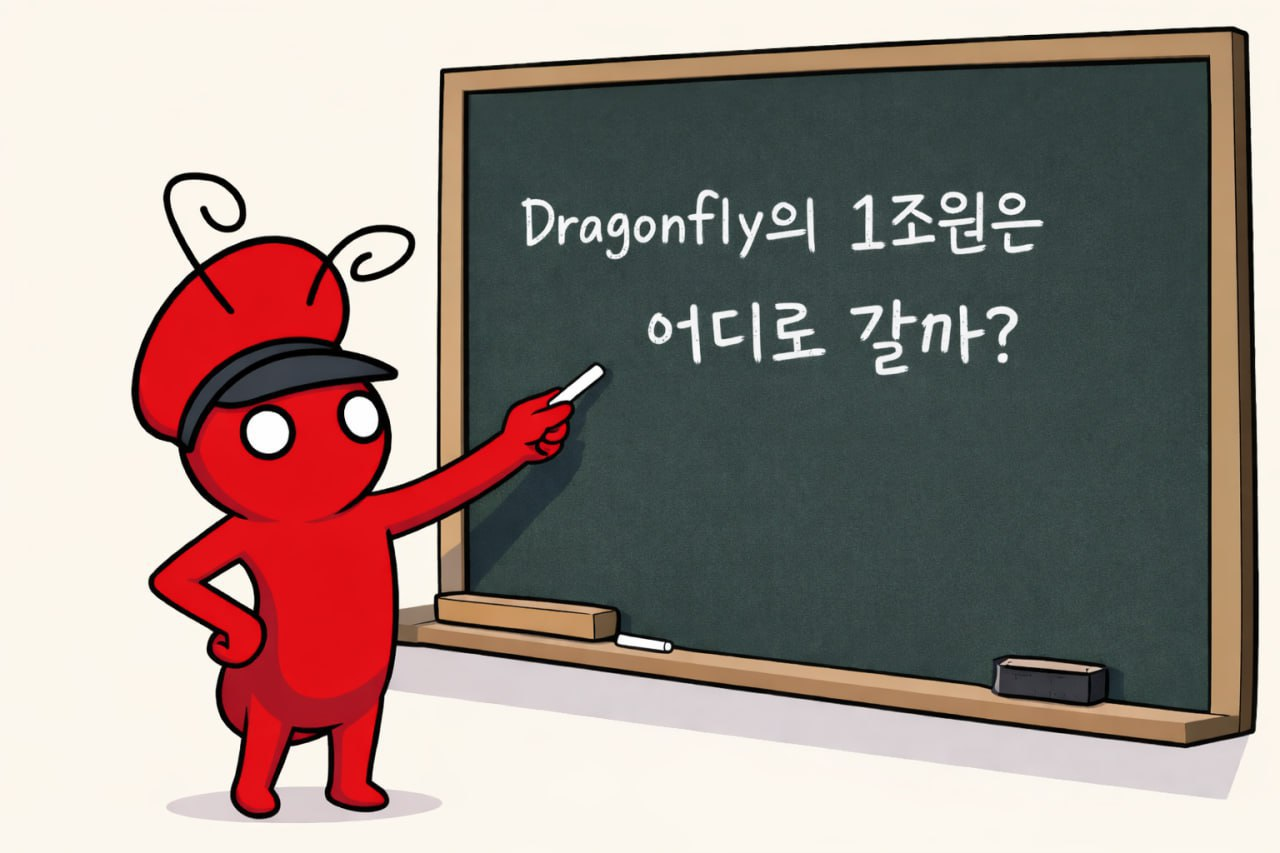
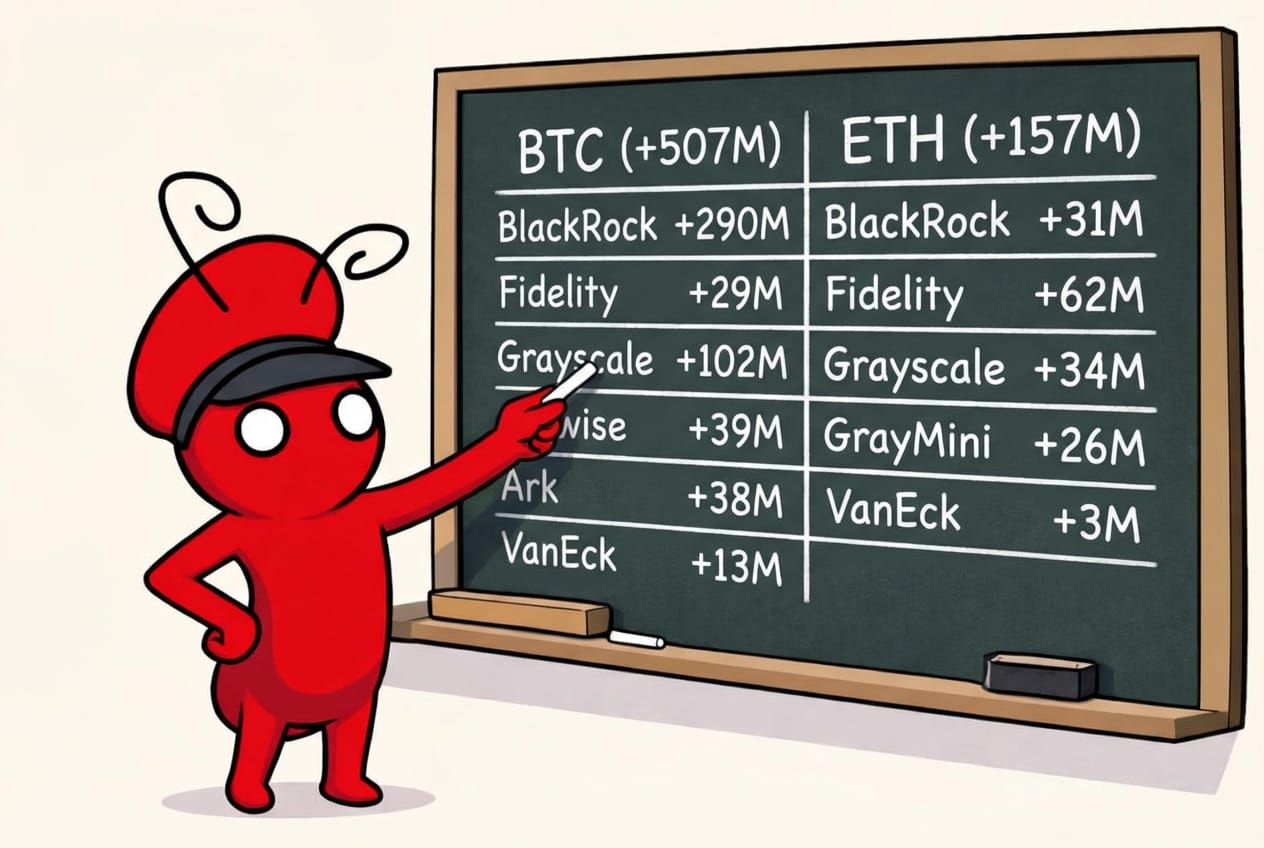
fix: ETF 이미지 양식 2컬럼 레이아웃으로 수정 + 레퍼런스 이미지 업데이트

diff --git a/memory/style.md b/memory/style.md
@@ -53,11 +53,19 @@
 - 참고: INFINIT Fireweek (1/26~1/30, 300만원)
 
 ### ETF 데일리 포스트 고정 양식 (변경 금지)
+
+**이미지 레이아웃**: 칠판 좌우 2컬럼 분할 (BTC 왼쪽 / ETH 오른쪽)
+- 헤더: `BTC (+[NET]M)` | `ETH (+[NET]M)`
+- 세로 중앙선 + 행별 가로 구분선
+- 행: 운용사명 + 금액 (BTC: BlackRock/Fidelity/Grayscale/Bitwise/ARK/Invesco | ETH: BlackRock/Fidelity/Grayscale/GrayMini/VanEck)
+- 레퍼런스: `/workspace/fireant-chalk-reference.jpg`
+
+**캡션 고정 양식:**
 ```
 📌 비트코인, 이더리움 현물 ETF 유출입 현황
 
-비트코인 : [BTC_NET] 순유입/유출 (IBIT [금액] / FBTC [금액])
-이더리움 : [ETH_NET] 순유입/유출 (ETHA [금액] / FETH [금액])
+비트코인 : [BTC_NET] 순유입/유출 (BlackRock [금액] / Fidelity [금액])
+이더리움 : [ETH_NET] 순유입/유출 (BlackRock [금액] / Fidelity [금액])
 
 [해석 1~2줄: 기관 자금 흐름 + 시장 분위기, 불개미 직설체]
 
@@ -67,8 +75,8 @@
 ```
 📌 비트코인, 이더리움 현물 ETF 유출입 현황
 
-비트코인 : +507M 순유입 (IBIT +290M / FBTC +29M)
-이더리움 : +157M 순유입 (ETHA +31M / FETH +62M)
+비트코인 : +507M 순유입 (BlackRock +290M / Fidelity +29M)
+이더리움 : +157M 순유입 (BlackRock +31M / Fidelity +62M)
 
 블랙록(IBIT) 중심으로 기관 자금이 계속 유입되고,
 그레이스케일도 유입 전환되며 시장 분위기 반전이 확인됩니다.
@@ -77,7 +85,7 @@
 ```
 **규칙:**
 - 헤더: 반드시 `📌 비트코인, 이더리움 현물 ETF 유출입 현황` 고정
-- 데이터: `비트코인 :` / `이더리움 :` 형식 고정, 괄호 안에 운용사별 금액
+- 데이터: `비트코인 :` / `이더리움 :` 형식 고정, 괄호 안에 BlackRock/Fidelity 금액
 - 해석: 2줄 이내, 직설체, 기관 흐름 + 분위기 한 줄씩
 - 결론: 1줄 + 🔥 마감
 
